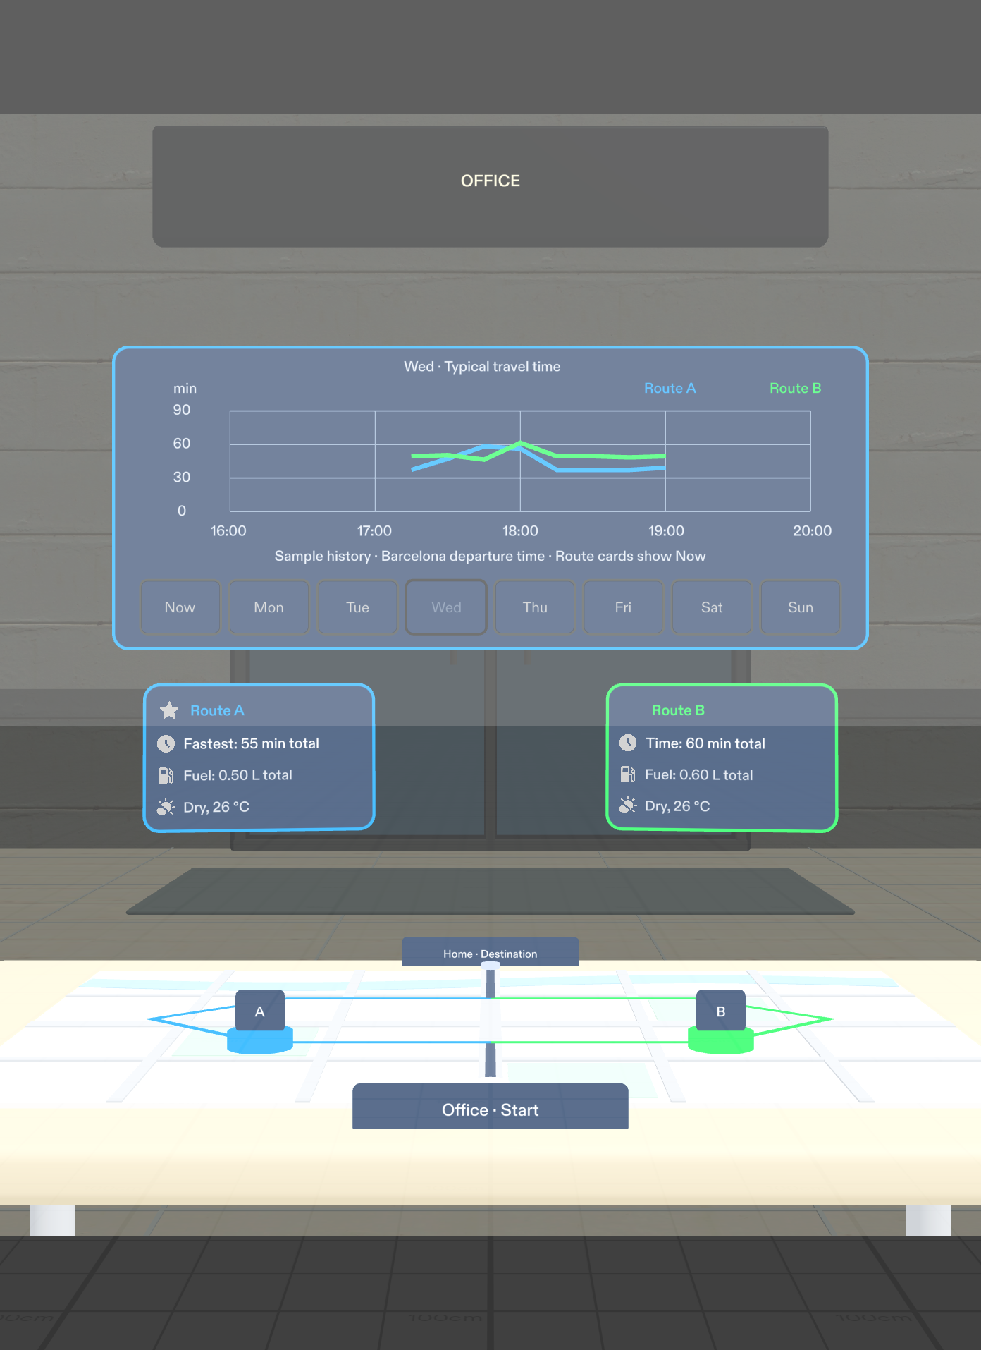
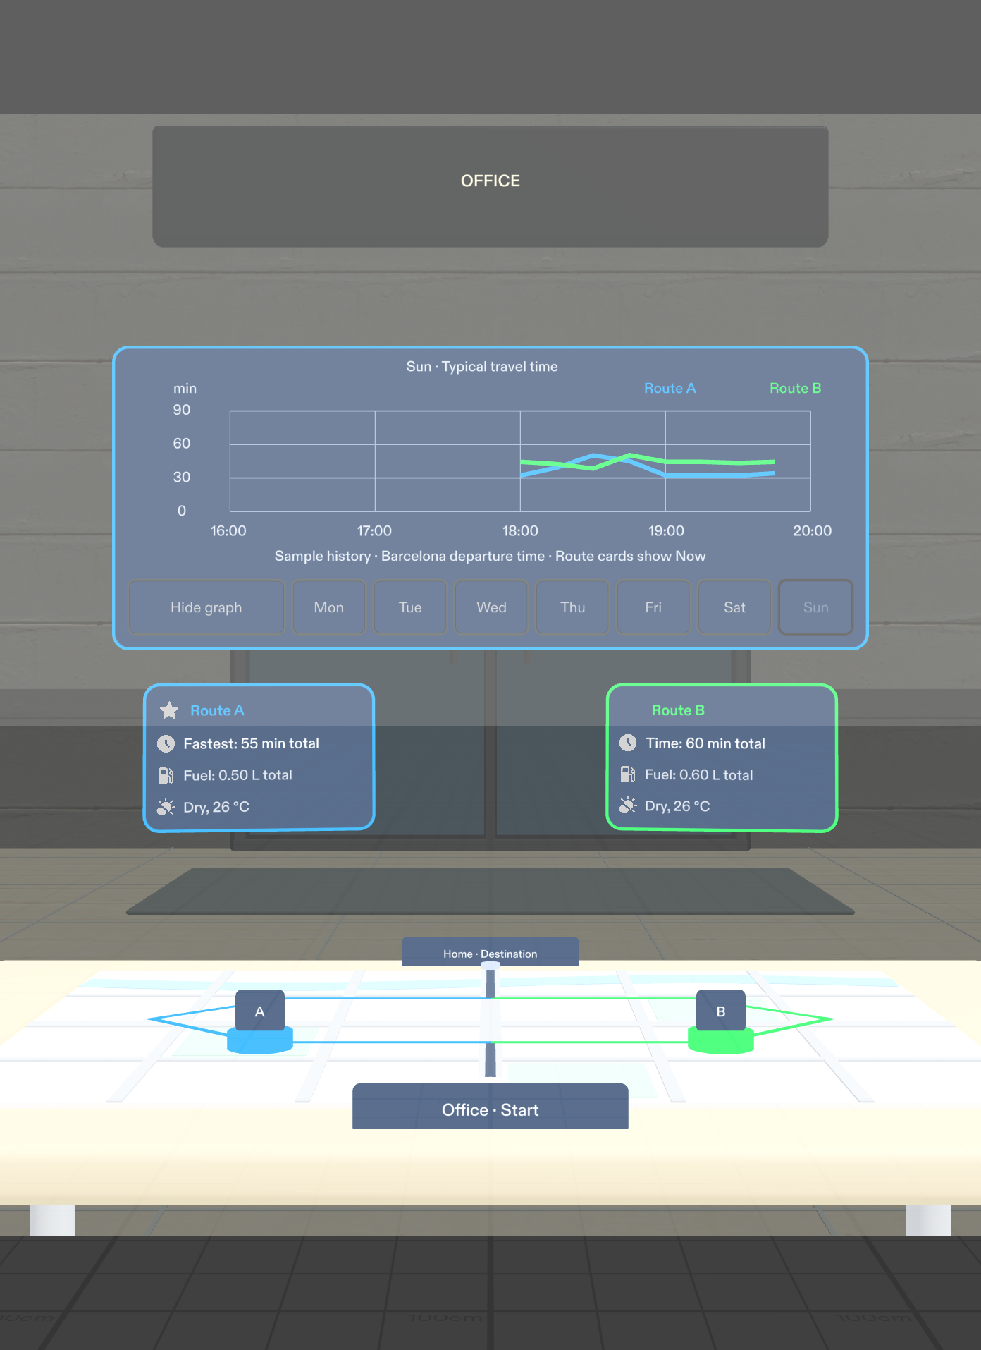
docs: show traffic graph open and hide controls

diff --git a/README.md b/README.md
@@ -52,7 +52,7 @@ stateDiagram-v2
 
 ## Traffic Insight departure planning
 
-![Interactive Preview at 17:30 in the sample return trip. B now arrives at 18:15. Waiting until 18:00 for A arrives at 18:36.](docs/media/traffic-insight-now.png)
+![The Now card in Interactive Preview shows a busy 17:45 return trip and the Show traffic graph button.](docs/media/traffic-insight-now.png)
 
 **Now** uses the latest paired traffic estimates for both routes and compares them with a typical lighter departure within the next hour. Fresh estimates count for up to 20 minutes. When they expire, the card labels its estimates as typical traffic. Each available option shows ride duration and estimated arrival time, so a shorter ride can still get you there later. Pinch either route to leave immediately. The estimate for the route you picked carries into the riding peek, **Where am I?**, and the stopped route comparison.
 
@@ -71,15 +71,15 @@ In Interactive Preview, pick **Go to office > Main office**. While the planning 
 
 ### Plan for another weekday
 
-![Interactive Preview showing typical travel minutes for routes A and B across the selected weekday.](docs/media/traffic-insight-weekday.png)
+![The Sunday graph in Interactive Preview shows typical travel minutes for routes A and B, day buttons, and the Hide graph control.](docs/media/traffic-insight-weekday.png)
 
-Choose **Mon** through **Sun** to see a graph for that day. The horizontal axis shows Barcelona departure time. The vertical axis shows typical ride minutes for route A in blue and route B in green. Lower points mean shorter rides. Both axes stay fixed as you switch days for the same commute direction. Missing intervals appear as gaps. Each plotted slot requires observations from at least three matching dates. Choose **Now** to return to current departure advice. The route cards below the graph always show the estimates for leaving now.
+Select **Show traffic graph**, then choose **Mon** through **Sun** to see that day's graph. The horizontal axis shows Barcelona departure time. The vertical axis shows typical ride minutes for route A in blue and route B in green. Lower points mean shorter rides. Both axes stay fixed as you switch days for the same commute direction. Missing intervals appear as gaps. Each plotted slot requires observations from at least three matching dates. Select **Hide graph** to return to current departure advice. Reopening the graph restores the weekday you last viewed for this plan. The route cards below the graph always show the estimates for leaving now.
 
 ### Use collected traffic history
 
 The independent collector can run while Lens Studio is closed. It records traffic-aware motorcycle trip estimates every 15 minutes and groups them by direction, Barcelona weekday and local time. A slot needs at least three matching dates before it can inform a recommendation. Live collection requires a TomTom API key and an HTTPS URL for the exported profile. During planning the Lens refreshes that profile at most once per minute. [Collector setup and route sources](tools/traffic-history/README.md)
 
-**Preview verification.** LEAF C15 passed in Interactive Preview on 2026-11-24. The Now screenshot shows a busy return trip, and the graph screenshot shows a sample Wednesday. [See the 17:00 good-time sample](docs/media/traffic-insight-departure.png).
+**Preview verification.** LEAF C15 passed in Interactive Preview on 2026-11-24. The Now screenshot shows a busy return trip, and the graph screenshot shows a sample Sunday. [See the 17:00 good-time sample](docs/media/traffic-insight-departure.png).
 
 ## Walkthrough
 
@@ -209,7 +209,7 @@ All seven photographic source files passed SHA-256 verification. Earlier local r
 | C12 | No duration cap, pitch/yaw look-away and re-entry, explicit Hide route and re-arming | Pass |
 | C13 | Shared remaining estimates and hazard boundaries; actual caption button; no visual or progress change | Pass |
 | C14 | Blocked states, immediate alert/stop/arrival dismissal and no automatic reopening | Pass |
-| C15 | Recent traffic, historical fallback, weekday route graphs and rider override | Pass (2026-11-24) |
+| C15 | Recent traffic, historical fallback, weekday graph open, hide, restore and rider override | Pass (2026-11-24) |
 
 Sound audibility, hardware hand tracking, daylight readability and real riding comfort are unverified. Logger checks still report existing SDK deprecation and renderer batching warnings; no runtime exceptions were observed during verification.
 

diff --git a/devpost/design-brief.md b/devpost/design-brief.md
@@ -129,7 +129,7 @@ rules in the original revision-two plan and decision 0008.
 
 15. After a destination is chosen, show a departure card on the planning map. In a good window recommend the quickest current route. During a busy window show a lighter departure and the quickest choice if leaving now, including A when B offers no improvement. Compare ride times and arrival clocks. Let the rider leave on either route in one pinch. Suppress timing advice for sparse history. Hide the card during the ride and use the chosen estimate for the route peek, caption and stopped comparison. LEAF C15 exercises the labeled sample scenarios through the normal controls.
 
-The Now view uses a recent paired route sample when it is at most 20 minutes old. Label the historical fallback when fresh traffic is unavailable. Let the rider select any weekday and compare both routes on a graph of typical trip minutes by Barcelona departure time. Keep both axes fixed across weekdays for the chosen trip direction. Show gaps where the history lacks enough observations. Browsing a weekday keeps the route choices tied to leaving now. LEAF C15 verifies that separation.
+The Now view uses a recent paired route sample when it is at most 20 minutes old. Label the historical fallback when fresh traffic is unavailable. Show the graph on request from the Now card. Hiding it restores current departure advice, and reopening it restores the last viewed weekday for this plan. Let the rider select any weekday and compare both routes on a graph of typical trip minutes by Barcelona departure time. Keep both axes fixed across weekdays for the chosen trip direction. Show gaps where the history lacks enough observations. Browsing a weekday keeps the route choices tied to leaving now. LEAF C15 verifies that separation.
 
 An independent collector samples each Barcelona corridor and direction every 15 minutes. Use weekday and local time to compare departures within the coming hour. At least three distinct matching dates support each estimate. The main-office commute connects Nou Barris and Zona Franca. The branch office uses its own fallback. [Collector and route details](../tools/traffic-history/README.md)
 
